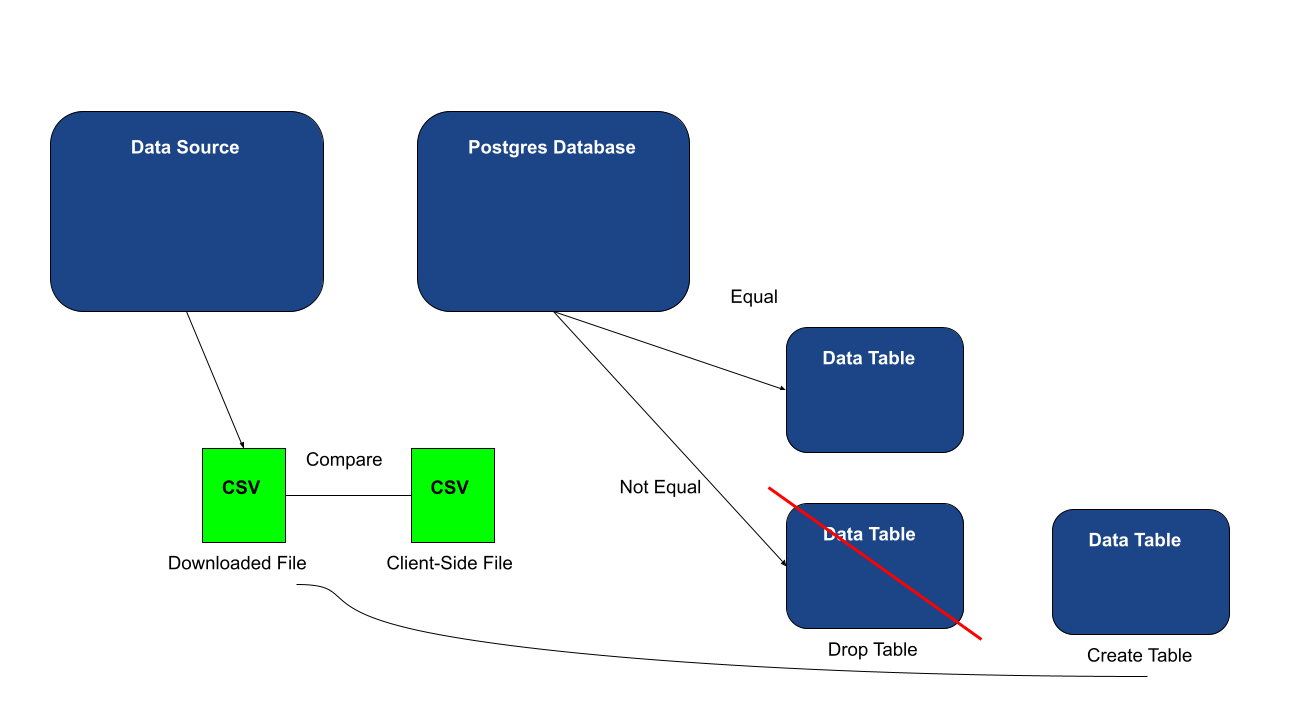
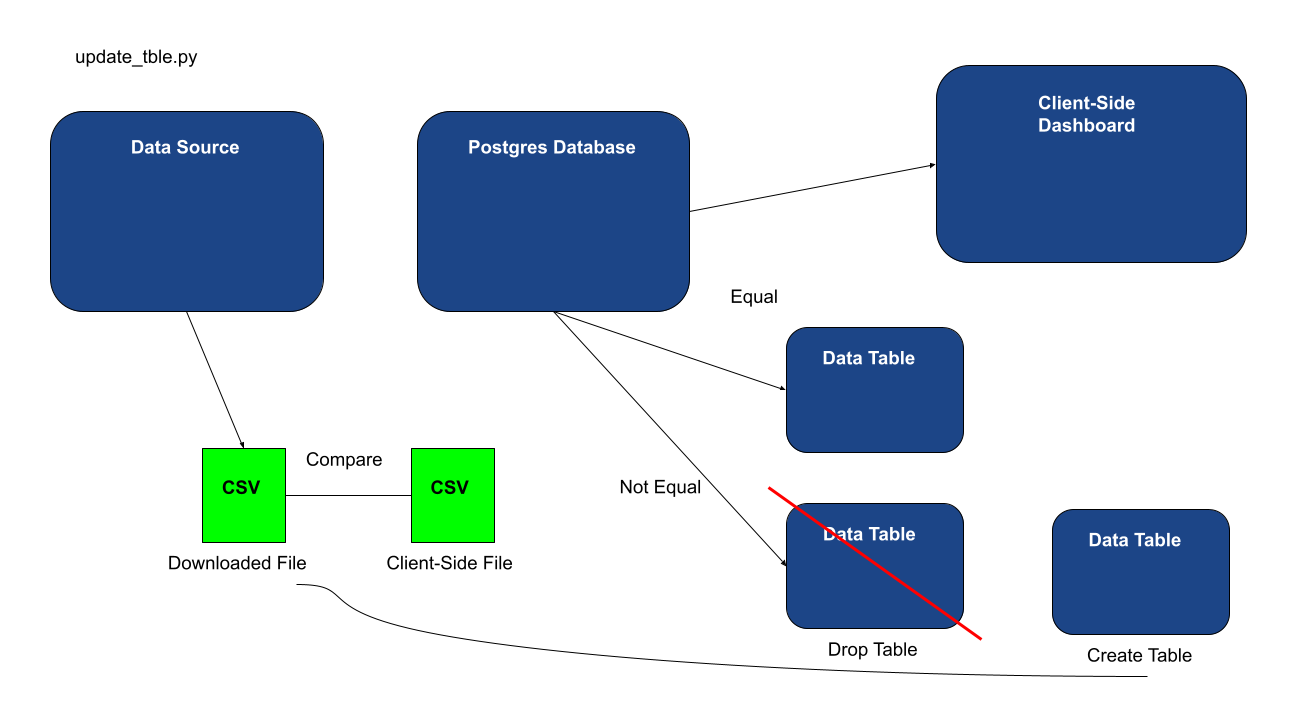
update

Changed region(s): [[0.7018, 0.0928, 0.9764, 0.3713], [0.061, 0.0619, 0.1526, 0.0928]]

diff --git a/readme.md b/readme.md
@@ -6,7 +6,7 @@ The Commuter Park Lots Listing provides travelers along the Thruway System with 
 
 Issue → Clients are looking to gain insight into the economic activity of the particular areas where public transportation is available and have a keen interest in the corresponding real estate markets.
 
-Task → Develop an implementation plan to on-board New York Park & Ride Facilities into Bloomberg’s databases and make it available to clients through a client-facing dashboard.
+Task → Develop an implementation plan to on-board New York Park & Ride Facilities into a database and make it available to clients through a client-facing dashboard.
 
 ## Project Architecture
 
